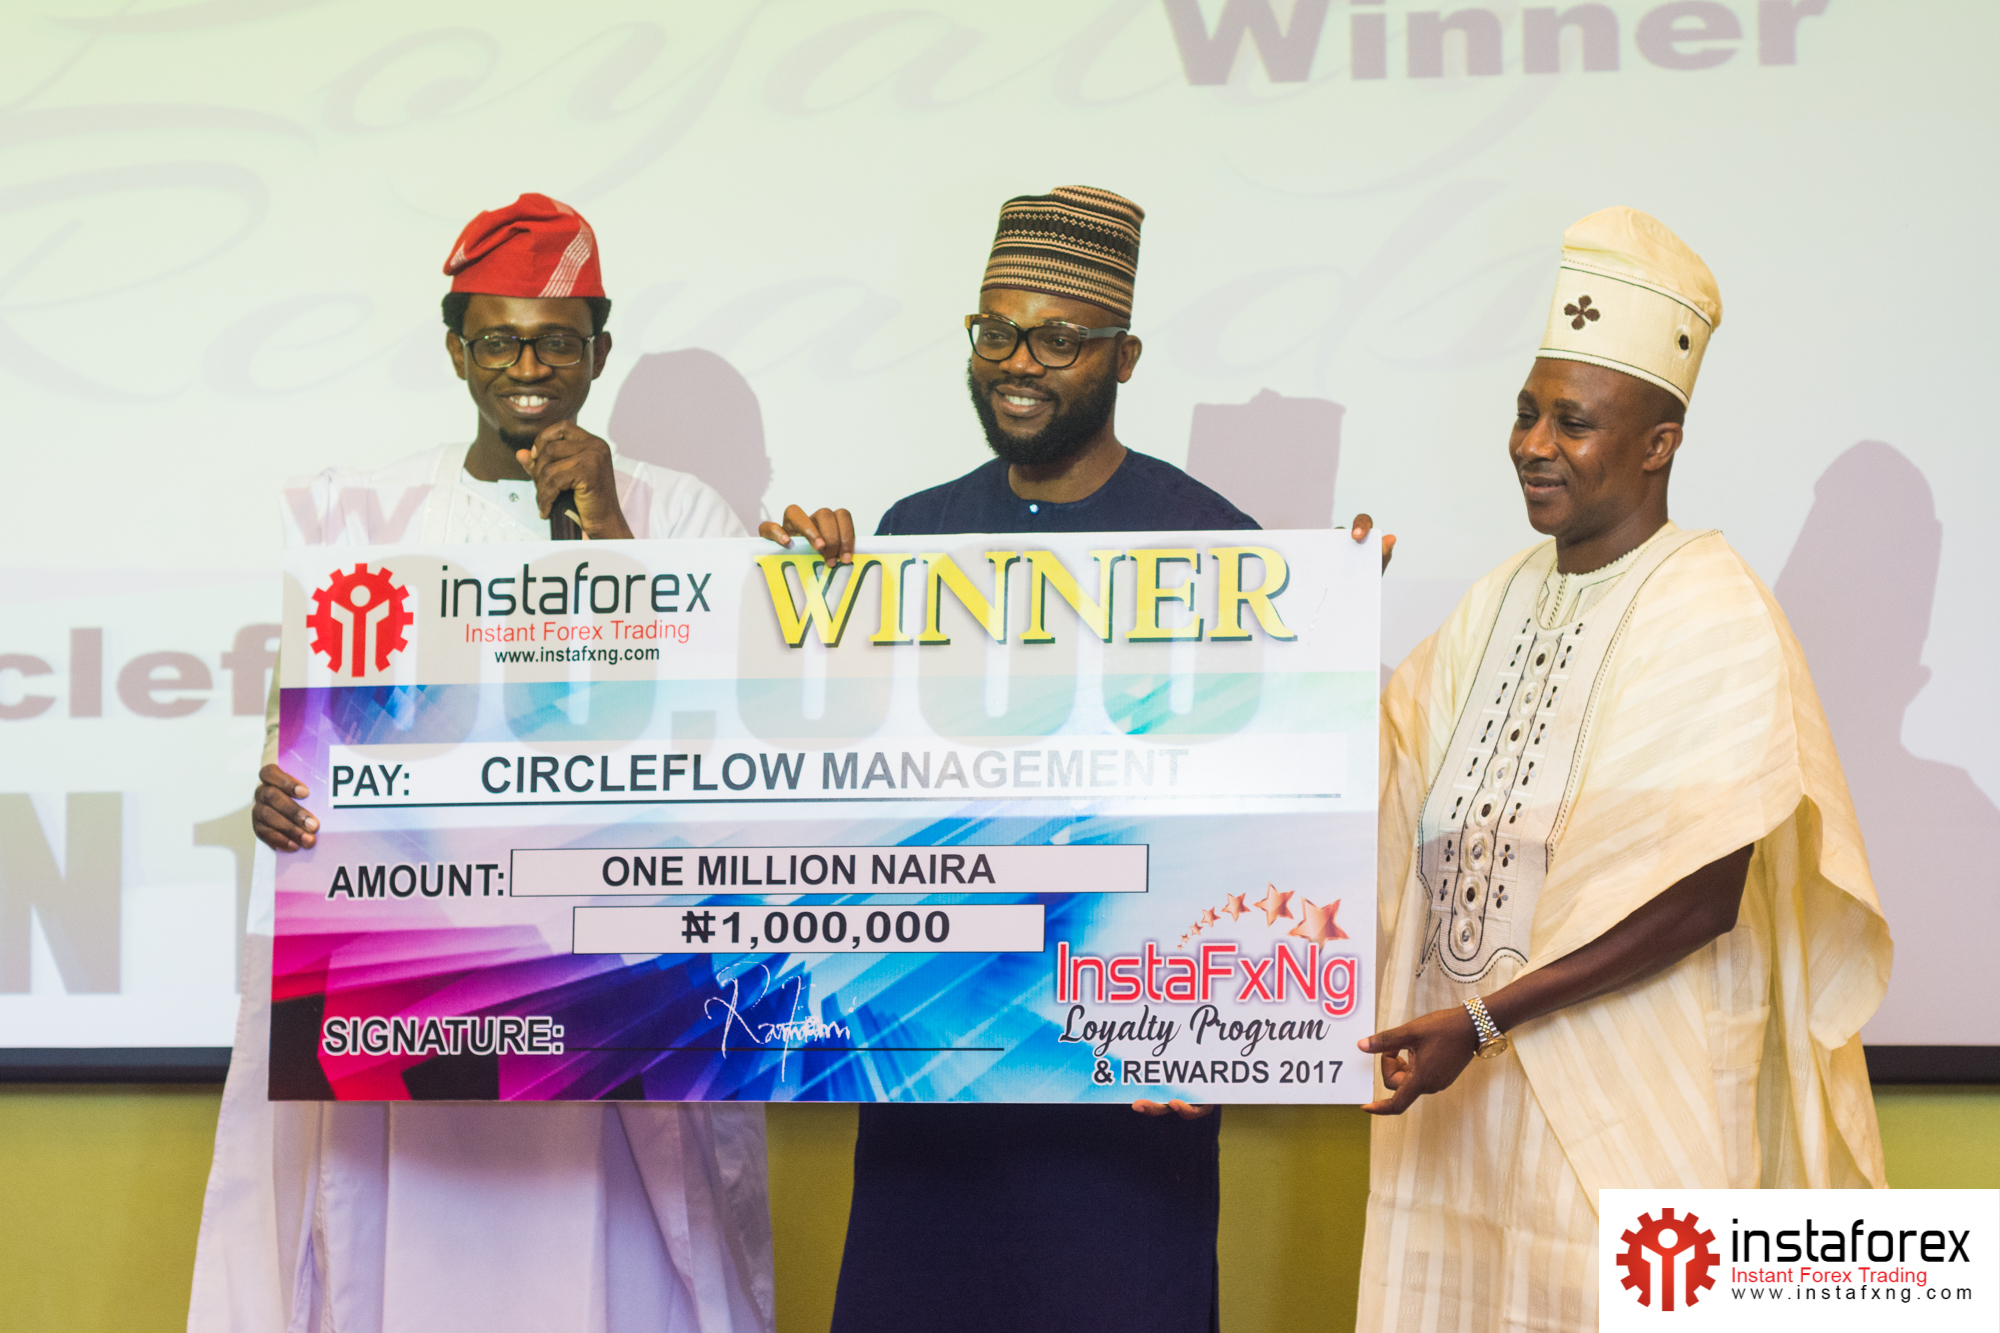
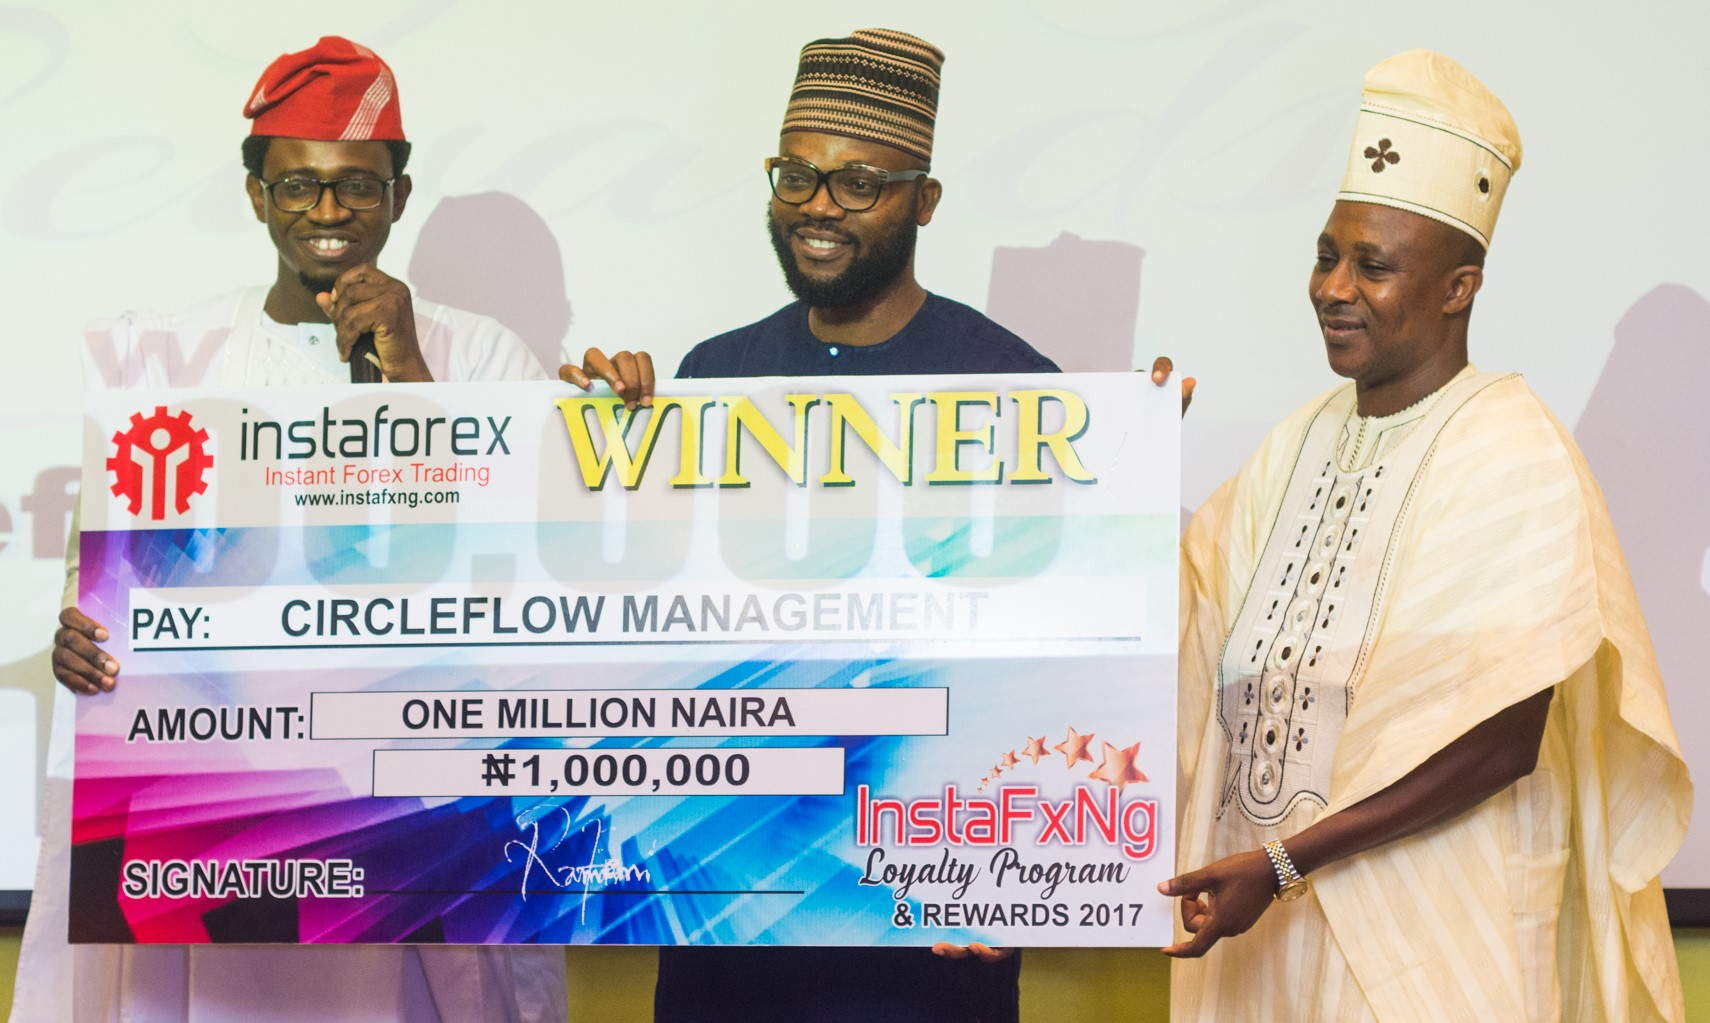
Updates

diff --git a/public_html/loyalty.php b/public_html/loyalty.php
@@ -104,34 +104,28 @@ $selected_loyalty_year = $db_handle->fetchAssoc($result);
                     <div class="super-shadow page-top-section">
                         <div class="row ">
                             <div class="col-sm-12">
-                                <img style="" src="images/ilpr_landing_image.jpg" alt="" class="img-thumbnail img img-responsive" />
+                                <img style="" src="images/Loyalty_Points_Images/ilpr_landing_image.jpg" alt="" class="img-thumbnail img img-responsive" />
                             </div>
                             <div class="col-sm-12">
-                                <h2>Instafxng Point Based Loyalty Program and Reward</h2>
+                                <center><h2>Instafxng Point Based Loyalty Program and Reward</h2>
                                 <p>Make Up To $4, 200 and N1, 000, 000 Extra While You Take Your Normal Trades.</p>
-                                <p><strong>Current Round:</strong><br />
-                                    <strong>Start Date:</strong> <?php echo datetime_to_text2($from_date_year); ?><br />
-                                    <strong>End Date:</strong> <?php echo datetime_to_text2($to_date_year); ?>
-                                </p>
+                                <h4>Current Round:</h4>
+                                    <p><strong>Starts </strong> <?php echo datetime_to_text2($from_date_year); ?>   <i class="glyphicon glyphicon-arrow-right"></i>  <strong>Ends </strong> <?php echo datetime_to_text2($to_date_year); ?></p>
+                                </center>
                             </div>
-
                         </div>
                     </div>
 
                     <div class="section-tint super-shadow">
                         <div class="row">
                             <div class="col-sm-12">
-                                <p>What is thrilling is how much you can get without doing anything extra other
-                                    than just trading as usual. You do not enter for a draw or trade a particular
-                                    lot size to qualify "Just Trade!"</p>
-
                                 <h4>What is the Instafxng Point Based Loyalty Program and Reward?</h4>
                                 <p>Our new unified reward program which rewards every single one
                                     of our loyal clients daily, monthly and annually.</p>
                                 <p>The first round of the InstaFxNg Point Based Loyalty Program and Reward ended on the 30th of
                                     November, 2017 with 10 amazing winners who got cash prizes ranging from N50, 000 up to
                                     N1 000 000.</p>
-                                <center><img src="images/Winners_of_Loyalty_Promo_in_2017.jpeg" class="img-responsive img-thumbnail"></center>
+                                <center><img src="images/Loyalty_Points_Images/ILPR_Collage.jpg" class="img-responsive img-thumbnail"></center>
                                 <p>What is thrilling is about the Loyalty rewards how much you can get without doing anything
                                     extra other than just trading as usual.</p>
                                 <p>You do not enter for a draw or trade a particular lot size to qualify <b>"Just Trade!"</b></p>
@@ -146,7 +140,7 @@ $selected_loyalty_year = $db_handle->fetchAssoc($result);
                                 <p>The Star winner of the 2016/2017 round started trading actively in July 2017 and kept trading
                                     consistently till he worked his way up to the top of the rank scale and emerged the winner of a
                                     whopping <b>One Million Naira</b>.</p>
-                                <center><img src="images/FXDINNER-224.jpg" class="img-responsive img-thumbnail"></center>
+                                <center><img src="images/Loyalty_Points_Images/FXDINNER-232.jpg" class="img-responsive img-thumbnail"></center>
                                 <p>It’s neither too late nor too early for you to emerge the star winner by the end of the 2018 round.</p>
 
                                 <h4>Here is how it works...</h4>
@@ -168,13 +162,26 @@ $selected_loyalty_year = $db_handle->fetchAssoc($result);
                                 <h4>But that's not all...</h4>
                                 <p>We will be rewarding $500 to five (5) clients with the highest number of loyalty points as seen from the
                                     monthly ranking for the month in view. The prizes are as follows</p>
-                                <center><b><ul>
-                                    <li>1st Prize = $150</li>
-                                    <li>2nd Prize = $120</li>
-                                    <li>3rd Prize = $100</li>
-                                    <li>4th Prize = $80</li>
-                                    <li>5th prize = $50</li>
-                                </ul></b></center>
+                                <div class="row ">
+                                    <div class="col-sm-6">
+                                        <img style="max-height: 320px" src="images/Loyalty_Points_Images/FXDINNER-106.jpg" alt="" class="img-thumbnail img img-responsive" />
+                                    </div>
+                                    <div class="col-sm-6">
+                                        <h4>1st Prize = $150</h4>
+                                        <br/>
+                                        <h4>2nd Prize = $120</h4>
+                                        <br/>
+                                        <h4>3rd Prize = $100</h4>
+                                        <br/>
+                                        <h4>4th Prize = $80</h4>
+                                        <br/>
+                                        <h4>5th Prize = $50</h4>
+                                    </div>
+                                </div>
+
+
+
+
                                 <p>In addition to the prizes, each winner gets a guaranteed invite to our annual lavish dinner which holds at the
                                     end of every year in December.</p>
 
@@ -183,14 +190,24 @@ $selected_loyalty_year = $db_handle->fetchAssoc($result);
                                     clients with the highest number of reward points as seen from the cumulative annual
                                     ranking will be awarded prizes. An annual cycle runs from December 1 to November 30 of
                                     the following year. The prizes are as follows</p>
-                                <center><b><ul>
-                                    <li>1st Prize = N1,000,000</li>
-                                    <li>2nd Prize = N500,000</li>
-                                    <li>3rd Prize = N250,000</li>
-                                    <li>4th Prize = N150,000</li>
-                                    <li>5th Prize = N100,000</li>
-                                    <li>6th – 10th Prize = N50,000 each</li>
-                                </ul></b></center>
+                                <div class="row ">
+                                    <div class="col-sm-6">
+                                        <h4 class=" text-center">1st Prize = N1,000,000</h4>
+                                        <br/>
+                                        <h4 class=" text-center">2nd Prize = N500,000</h4>
+                                        <br/>
+                                        <h4 class=" text-center">3rd Prize = N250,000</h4>
+                                        <br/>
+                                        <h4 class=" text-center">4th Prize = N150,000</h4>
+                                        <br/>
+                                        <h4 class=" text-center">5th Prize = N100,000</h4>
+                                        <br/>
+                                        <h4 class=" text-center">6th – 10th Prize = N50,000 each</h4>
+                                    </div>
+                                    <div class="col-sm-6">
+                                        <img style="max-height: 360px" src="images/Loyalty_Points_Images/FXDINNER-117.jpg" alt="" class="img-thumbnail img img-responsive" />
+                                    </div>
+                                </div>
                                 <p>Prizes will be presented to winners during our end of the year dinner in December</p>
 
                                 <h4>How much can you earn from this rewards Program...?</h4>
